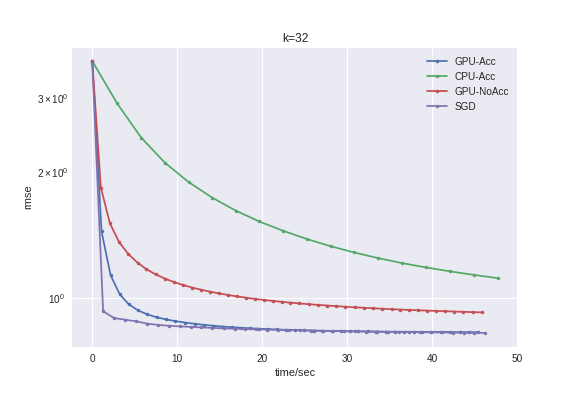
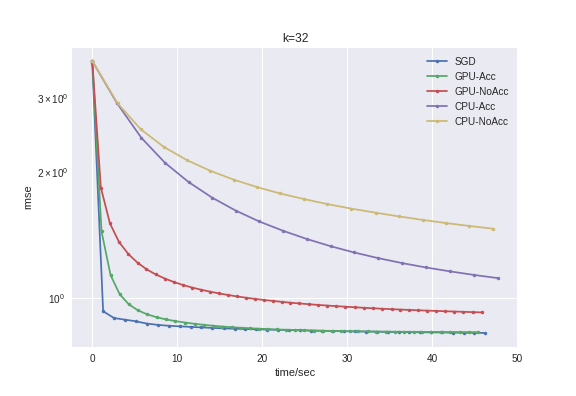
update

diff --git a/README.md b/README.md
@@ -4,7 +4,7 @@ We are interested in GPU-accelerating the SoftImpute algorithm from Hastie et al
 
 We use randomized SVD as it seems to work better with GPUs. We use the accelerated proximal gradient method also mentioned in Quanming Yao et al's paper. See below for references.
 
-We compare these GPU-accelerated versions against the CPU version. We see that there is at least a 10X speedup. We also compare against a simple SGD implementation with a bit of tuning. All CPU implmentations, SoftImpute or SGD, use Eigen or BLAS. They are pretty efficient, to be fair.
+We compare these GPU-accelerated versions against the CPU version. We see that there is at least a *10X* speedup. We also compare against a simple SGD implementation with a bit of tuning. All CPU implmentations, SoftImpute or SGD, use Eigen or BLAS. They are pretty efficient, to be fair.
 
 For the data, currently we only have the MovieLens 20M dataset. We split the data into 5 parts and use one part for measuring the error. (There is no validation set but we hardly do any tuning anyway.)
 
@@ -13,6 +13,11 @@ The results seem to be that SGD is still faster, even when on single core.
 Our CPU is a I7-6700K. Our GPU is a Titan-X with 12G RAM.
 
 ![plot](https://github.com/tinkerstash/gpuimpute/blob/master/results/plot1.png?raw=true)
+
+* The slowest is CPU-NoAcc which is the CPU version with un-accelerated proximal gradient.
+* The next slowest is CPU-Acc which is the CPU version with accelerated proximal gradient.
+* The GPU versions are all significantly faster, seemingly >10X. (We do have a fast GPU unfortunately.)
+* However, SGD still seems to be the fastest.
 
 The most tricky part of the GPU code is probably the evaluation of many short inner products. It seems to be the bottleneck, and we have to write a custom kernel to do that efficiently.
 
